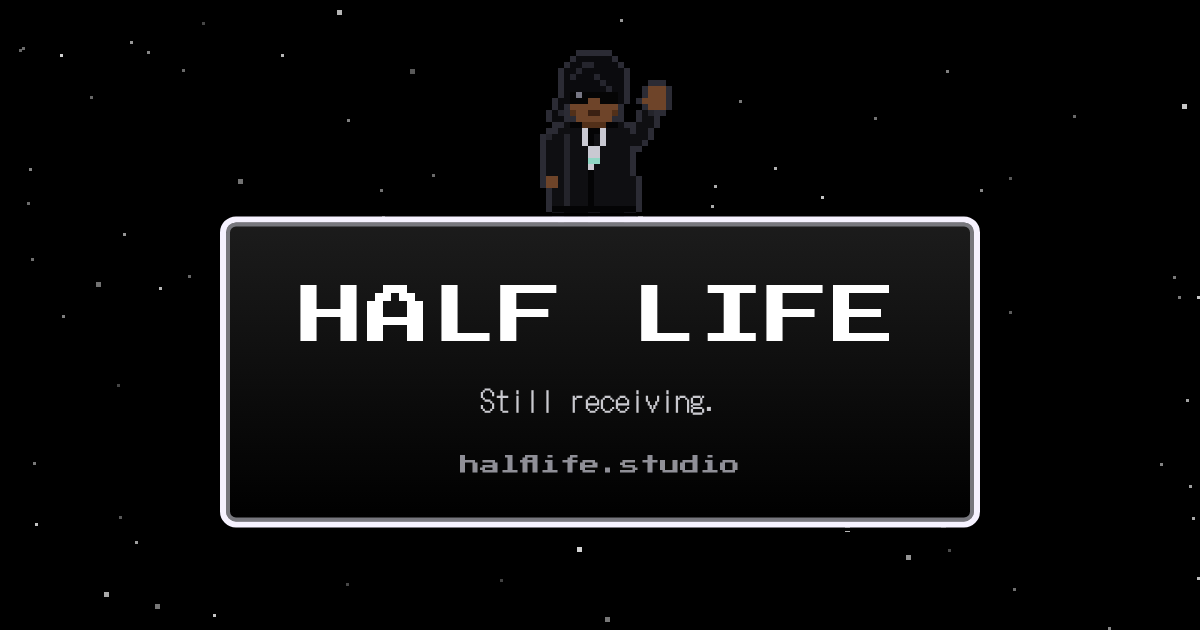
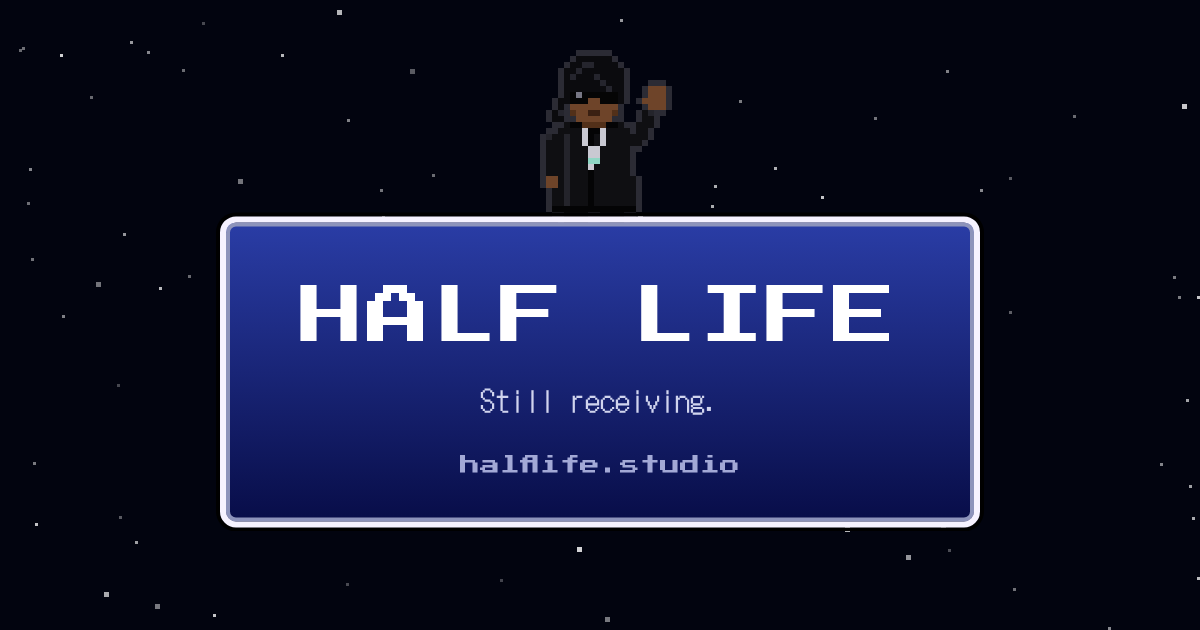
Back to the classic blue windows
Claude-Session: https://claude.ai/code/session_0165pGJ2MGF3djZuCNPNtFve

Changed region(s): [[0.185, 0.3317, 0.8325, 0.8444]]

diff --git a/index.html b/index.html
@@ -5,7 +5,7 @@
 <meta name="viewport" content="width=device-width,initial-scale=1,viewport-fit=cover">
 <title>Half Life</title>
 <meta name="description" content="Half Life. Photographs, a log, a bestiary of fish and a map of where it all happened. By Chris.">
-<meta name="theme-color" content="#000000">
+<meta name="theme-color" content="#02040f">
 <meta property="og:title" content="Half Life">
 <meta property="og:description" content="Photographs, a log, a bestiary of fish and a map of where it all happened. By Chris.">
 <meta property="og:site_name" content="Half Life">
@@ -41,11 +41,11 @@ img { max-width: 100%; }
    Layout: a 16-bit RPG menu screen. Title bar across the top, a large main window
    (log list / About / Help), a command window and a status window on the right.
    A title screen with a Start button covers it first; an opened entry pops out as a
-   translucent window. Single black look by choice. */
+   translucent window. The classic blue menu look: to change it, edit --win-a and --win-b just below. */
 :root {
   color-scheme: dark;
-  --win-a: #1c1c1c;       /* window gradient, top */
-  --win-b: #000000;       /* window gradient, bottom */
+  --win-a: #2a3da6;       /* window gradient, top: the classic menu blue */
+  --win-b: #080d48;       /* window gradient, bottom */
   --accent: #ffffff;      /* cursor, headings */
   --bg: color-mix(in srgb, var(--win-b) 28%, #000);            /* field behind the windows */
   --veil: color-mix(in srgb, var(--bg) 62%, transparent);
@@ -254,8 +254,8 @@ h3 { font-size: 12px; line-height: 1.7; color: var(--accent); margin-top: 8px; }
 .lmhead { display: flex; justify-content: space-between; align-items: baseline; margin: 16px 0 0; font-family: var(--display); font-size: 11px; line-height: 1.6; color: var(--accent); border-top: 2px solid rgba(255, 255, 255, .3); padding-top: 12px; }
 .lmcount { color: var(--dim); font-family: var(--body); font-size: 16px; font-variant-numeric: tabular-nums; }
 .lms { list-style: none; margin: 10px 0 0; padding: 0; display: grid; grid-template-columns: repeat(auto-fill, minmax(88px, 1fr)); gap: 8px; }
-.lm { position: relative; background: #121419; border: 2px solid #343741; border-radius: 6px; padding: 10px 5px 7px; text-align: center; font-size: 13.5px; line-height: 1.25; color: var(--off); overflow-wrap: anywhere; }
-.lm.done { border-color: var(--border); color: var(--fg); background: #191c23; }
+.lm { position: relative; background: rgba(0, 0, 0, .34); border: 2px solid rgba(255, 255, 255, .22); border-radius: 6px; padding: 10px 5px 7px; text-align: center; font-size: 13.5px; line-height: 1.25; color: var(--off); overflow-wrap: anywhere; }
+.lm.done { border-color: var(--border); color: var(--fg); background: rgba(0, 0, 0, .2); }
 .lm canvas { display: block; width: 48px; height: 48px; margin: 0 auto 6px; image-rendering: pixelated; }
 .lm .tick { position: absolute; top: 4px; right: 4px; width: 9px; height: 9px; border: 2px solid currentColor; background: #000; }
 .lm.done .tick { background: #7fd68a; border-color: #7fd68a; }
